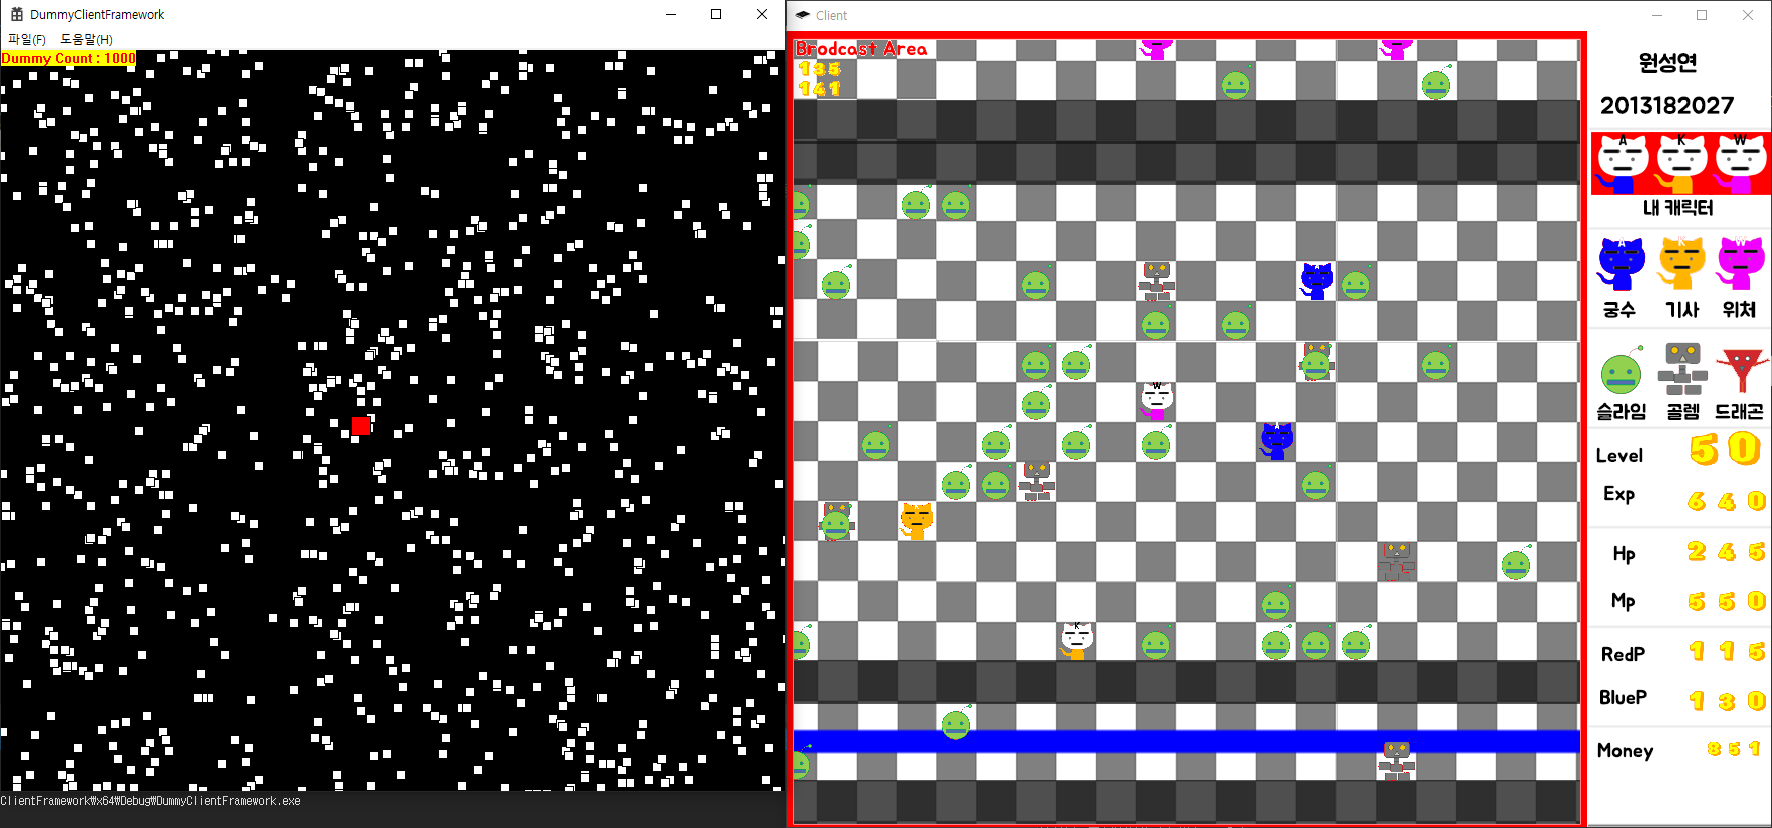
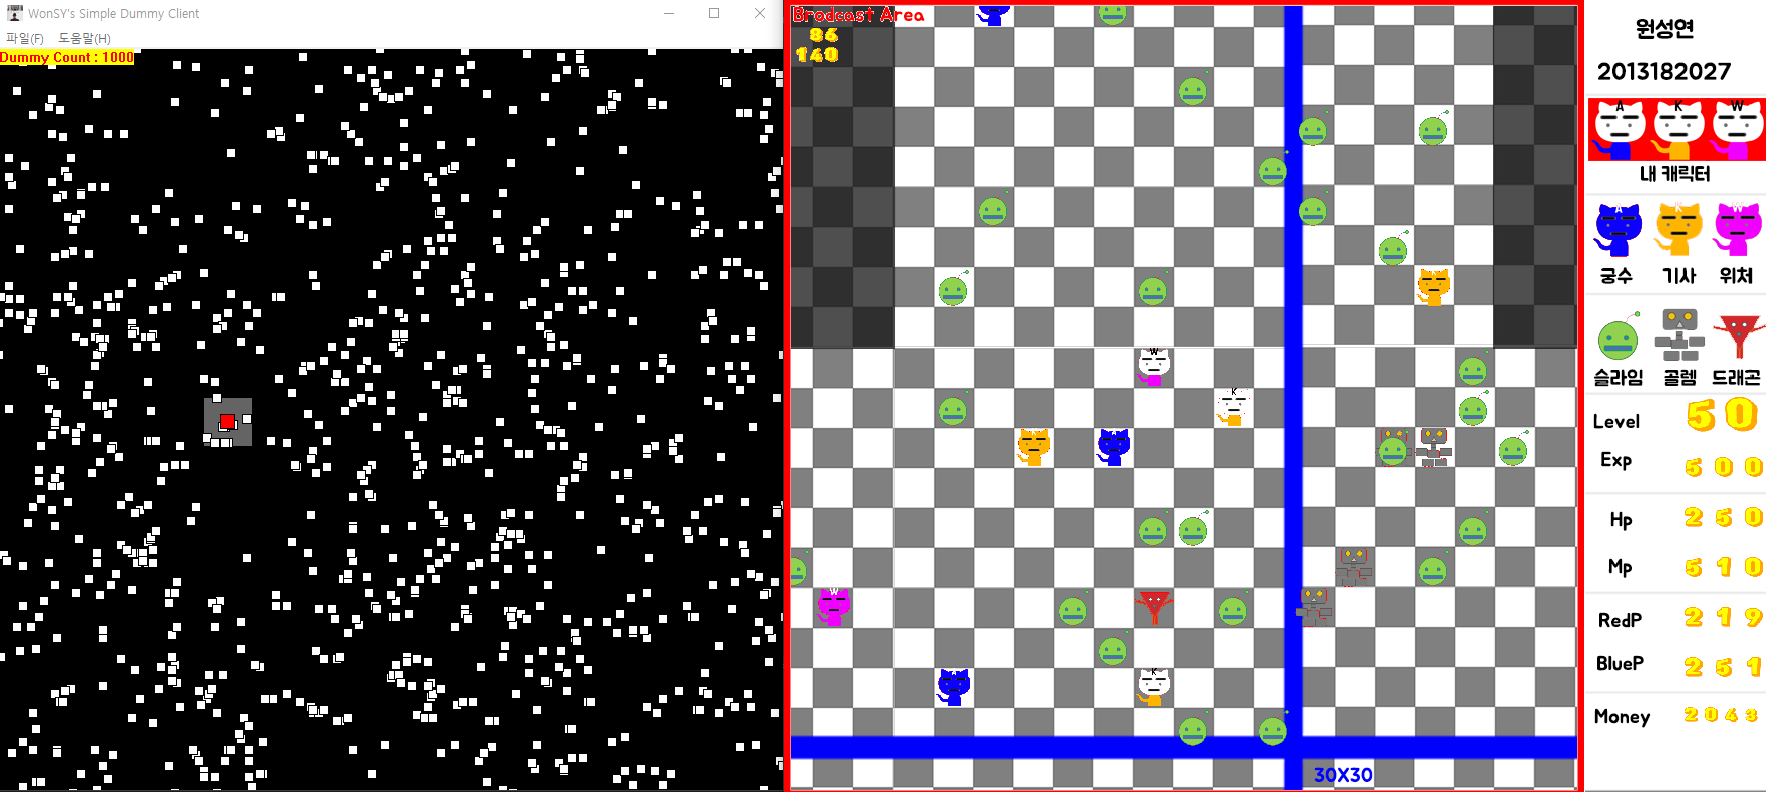
[Release] Dummy Client Ver 1.1
- Broadcast Region Draw
- Change Icon
- Add UI

diff --git a/DummyClientFramework/DummyClientFramework/LogManager.cpp b/DummyClientFramework/DummyClientFramework/LogManager.cpp
@@ -12,7 +12,6 @@ LogManager::LogManager()
 	, saveFlag(true)
 {
 	//logCont.reserve(50);
-	UNICODE_UTIL::SetLocaleForKorean();
 }
 
 void LogManager::MakeInstance()
